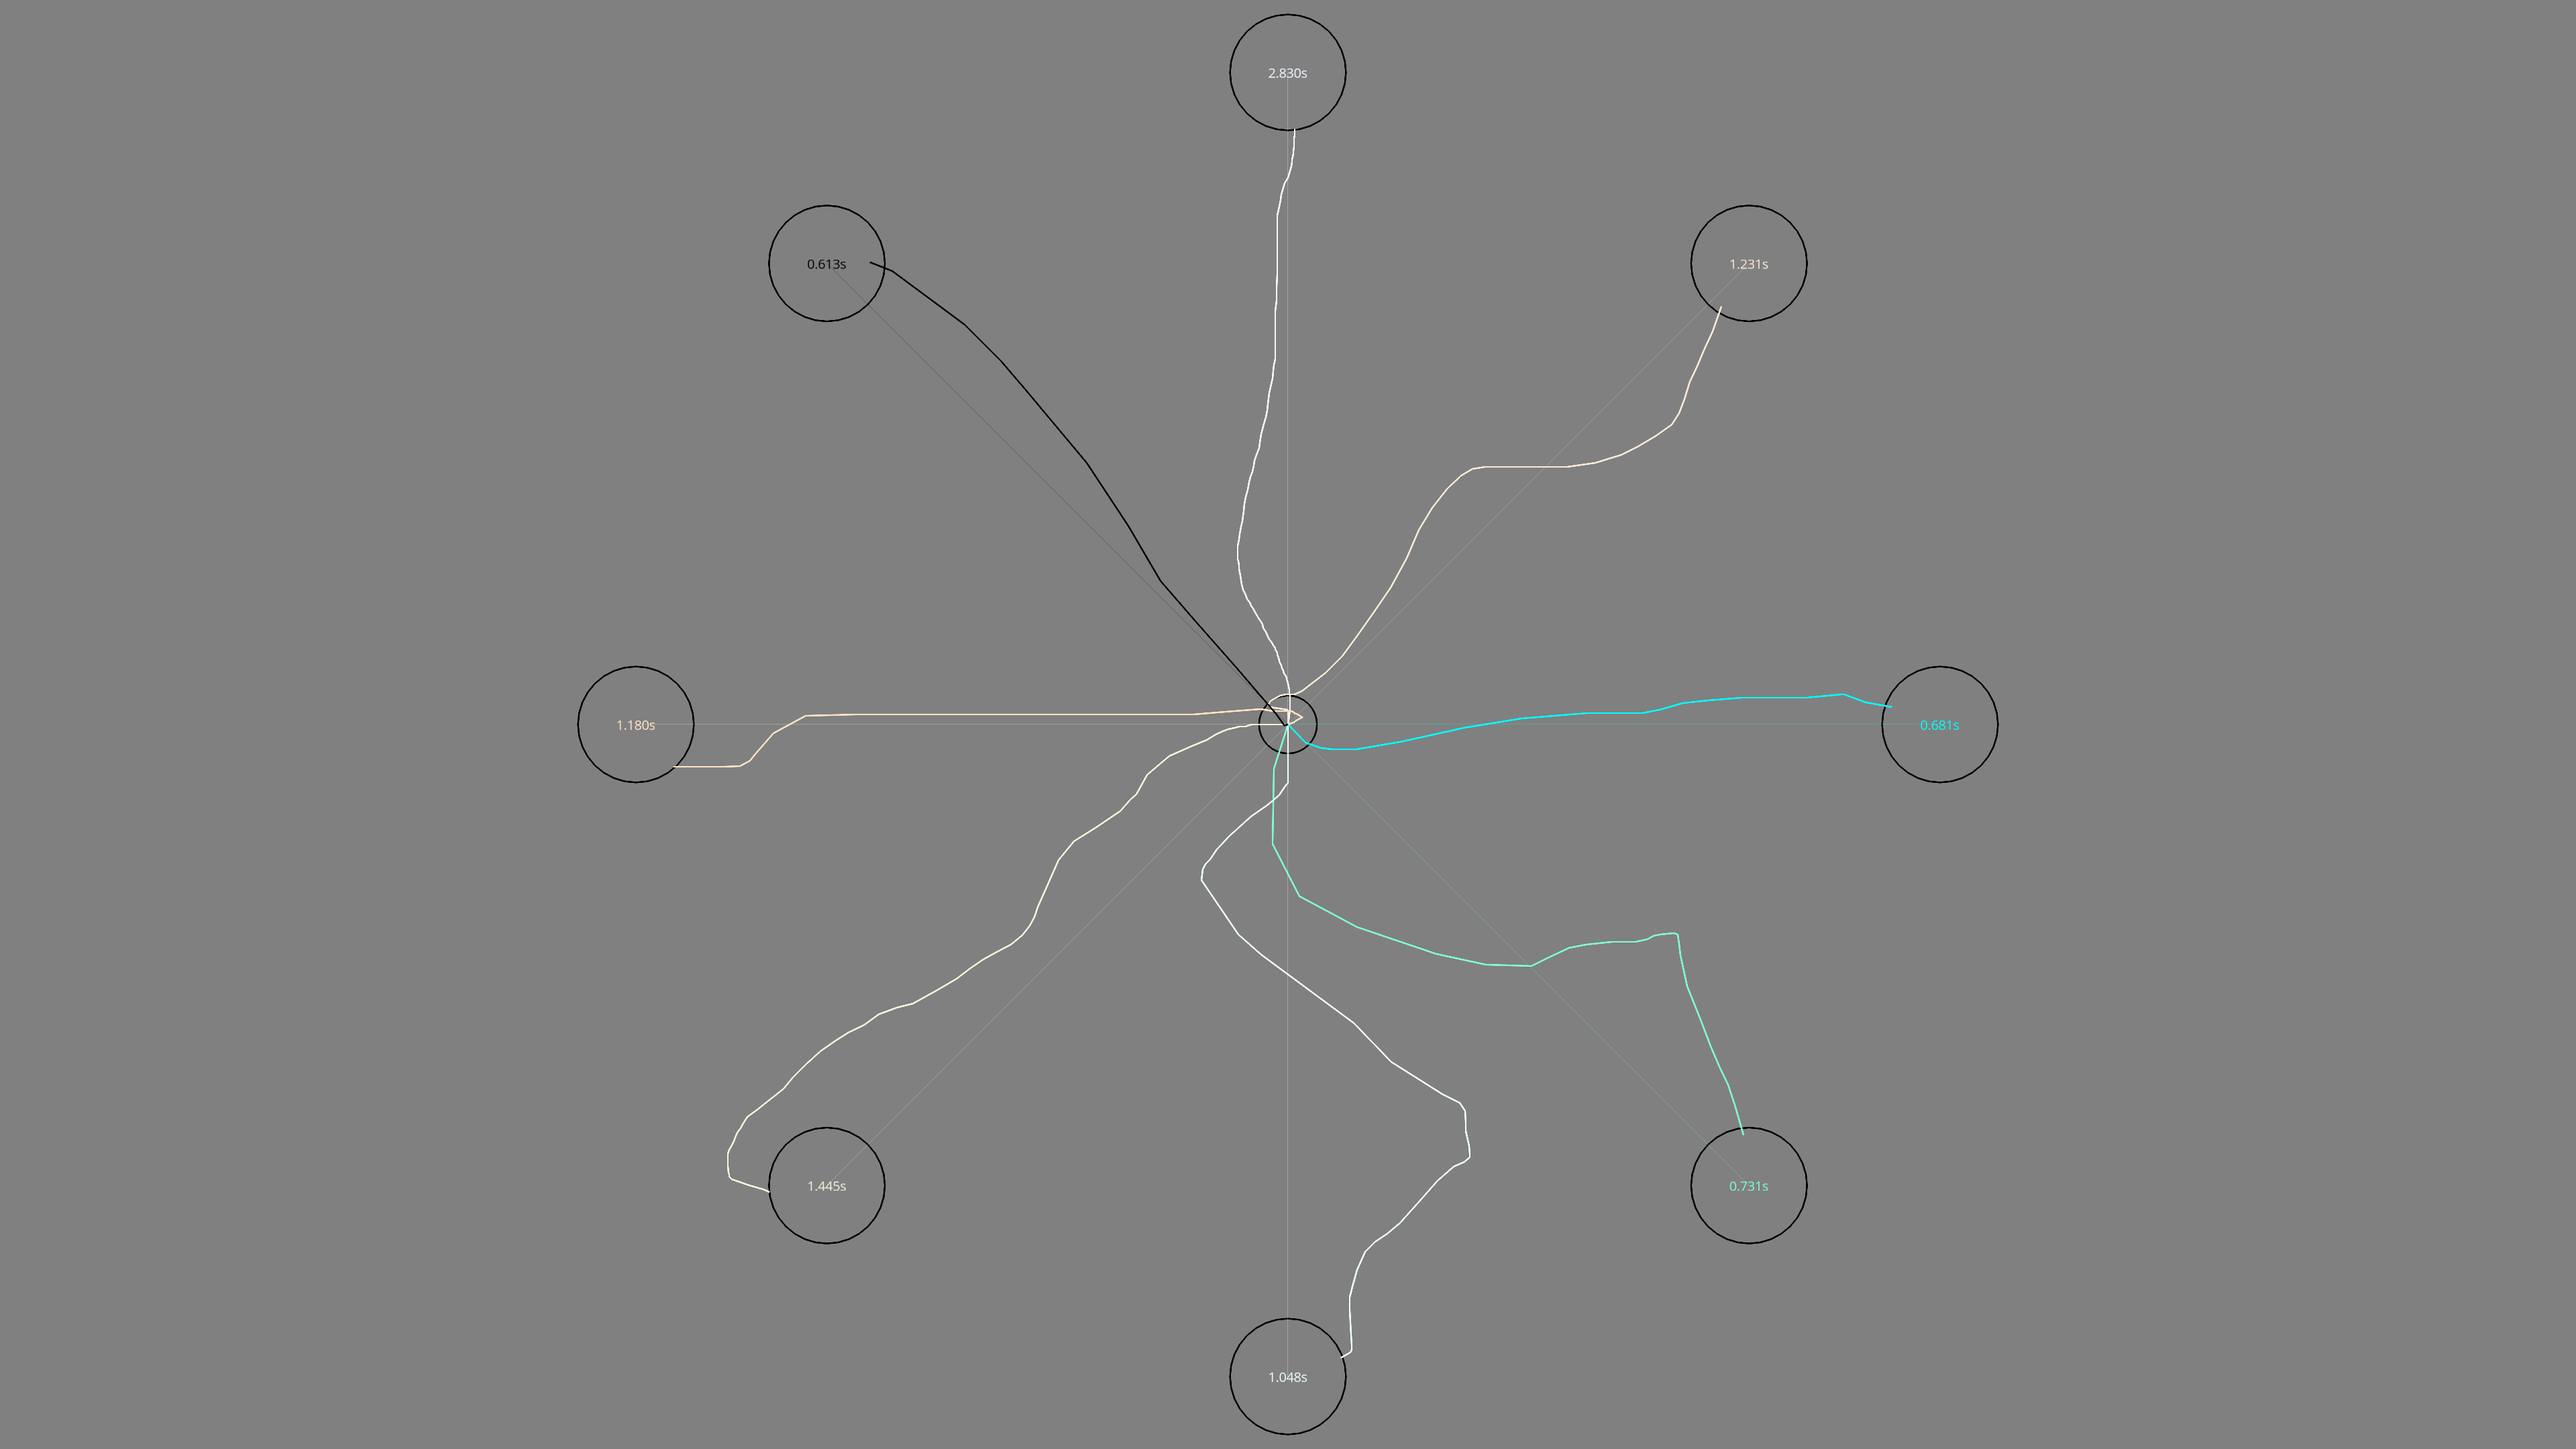
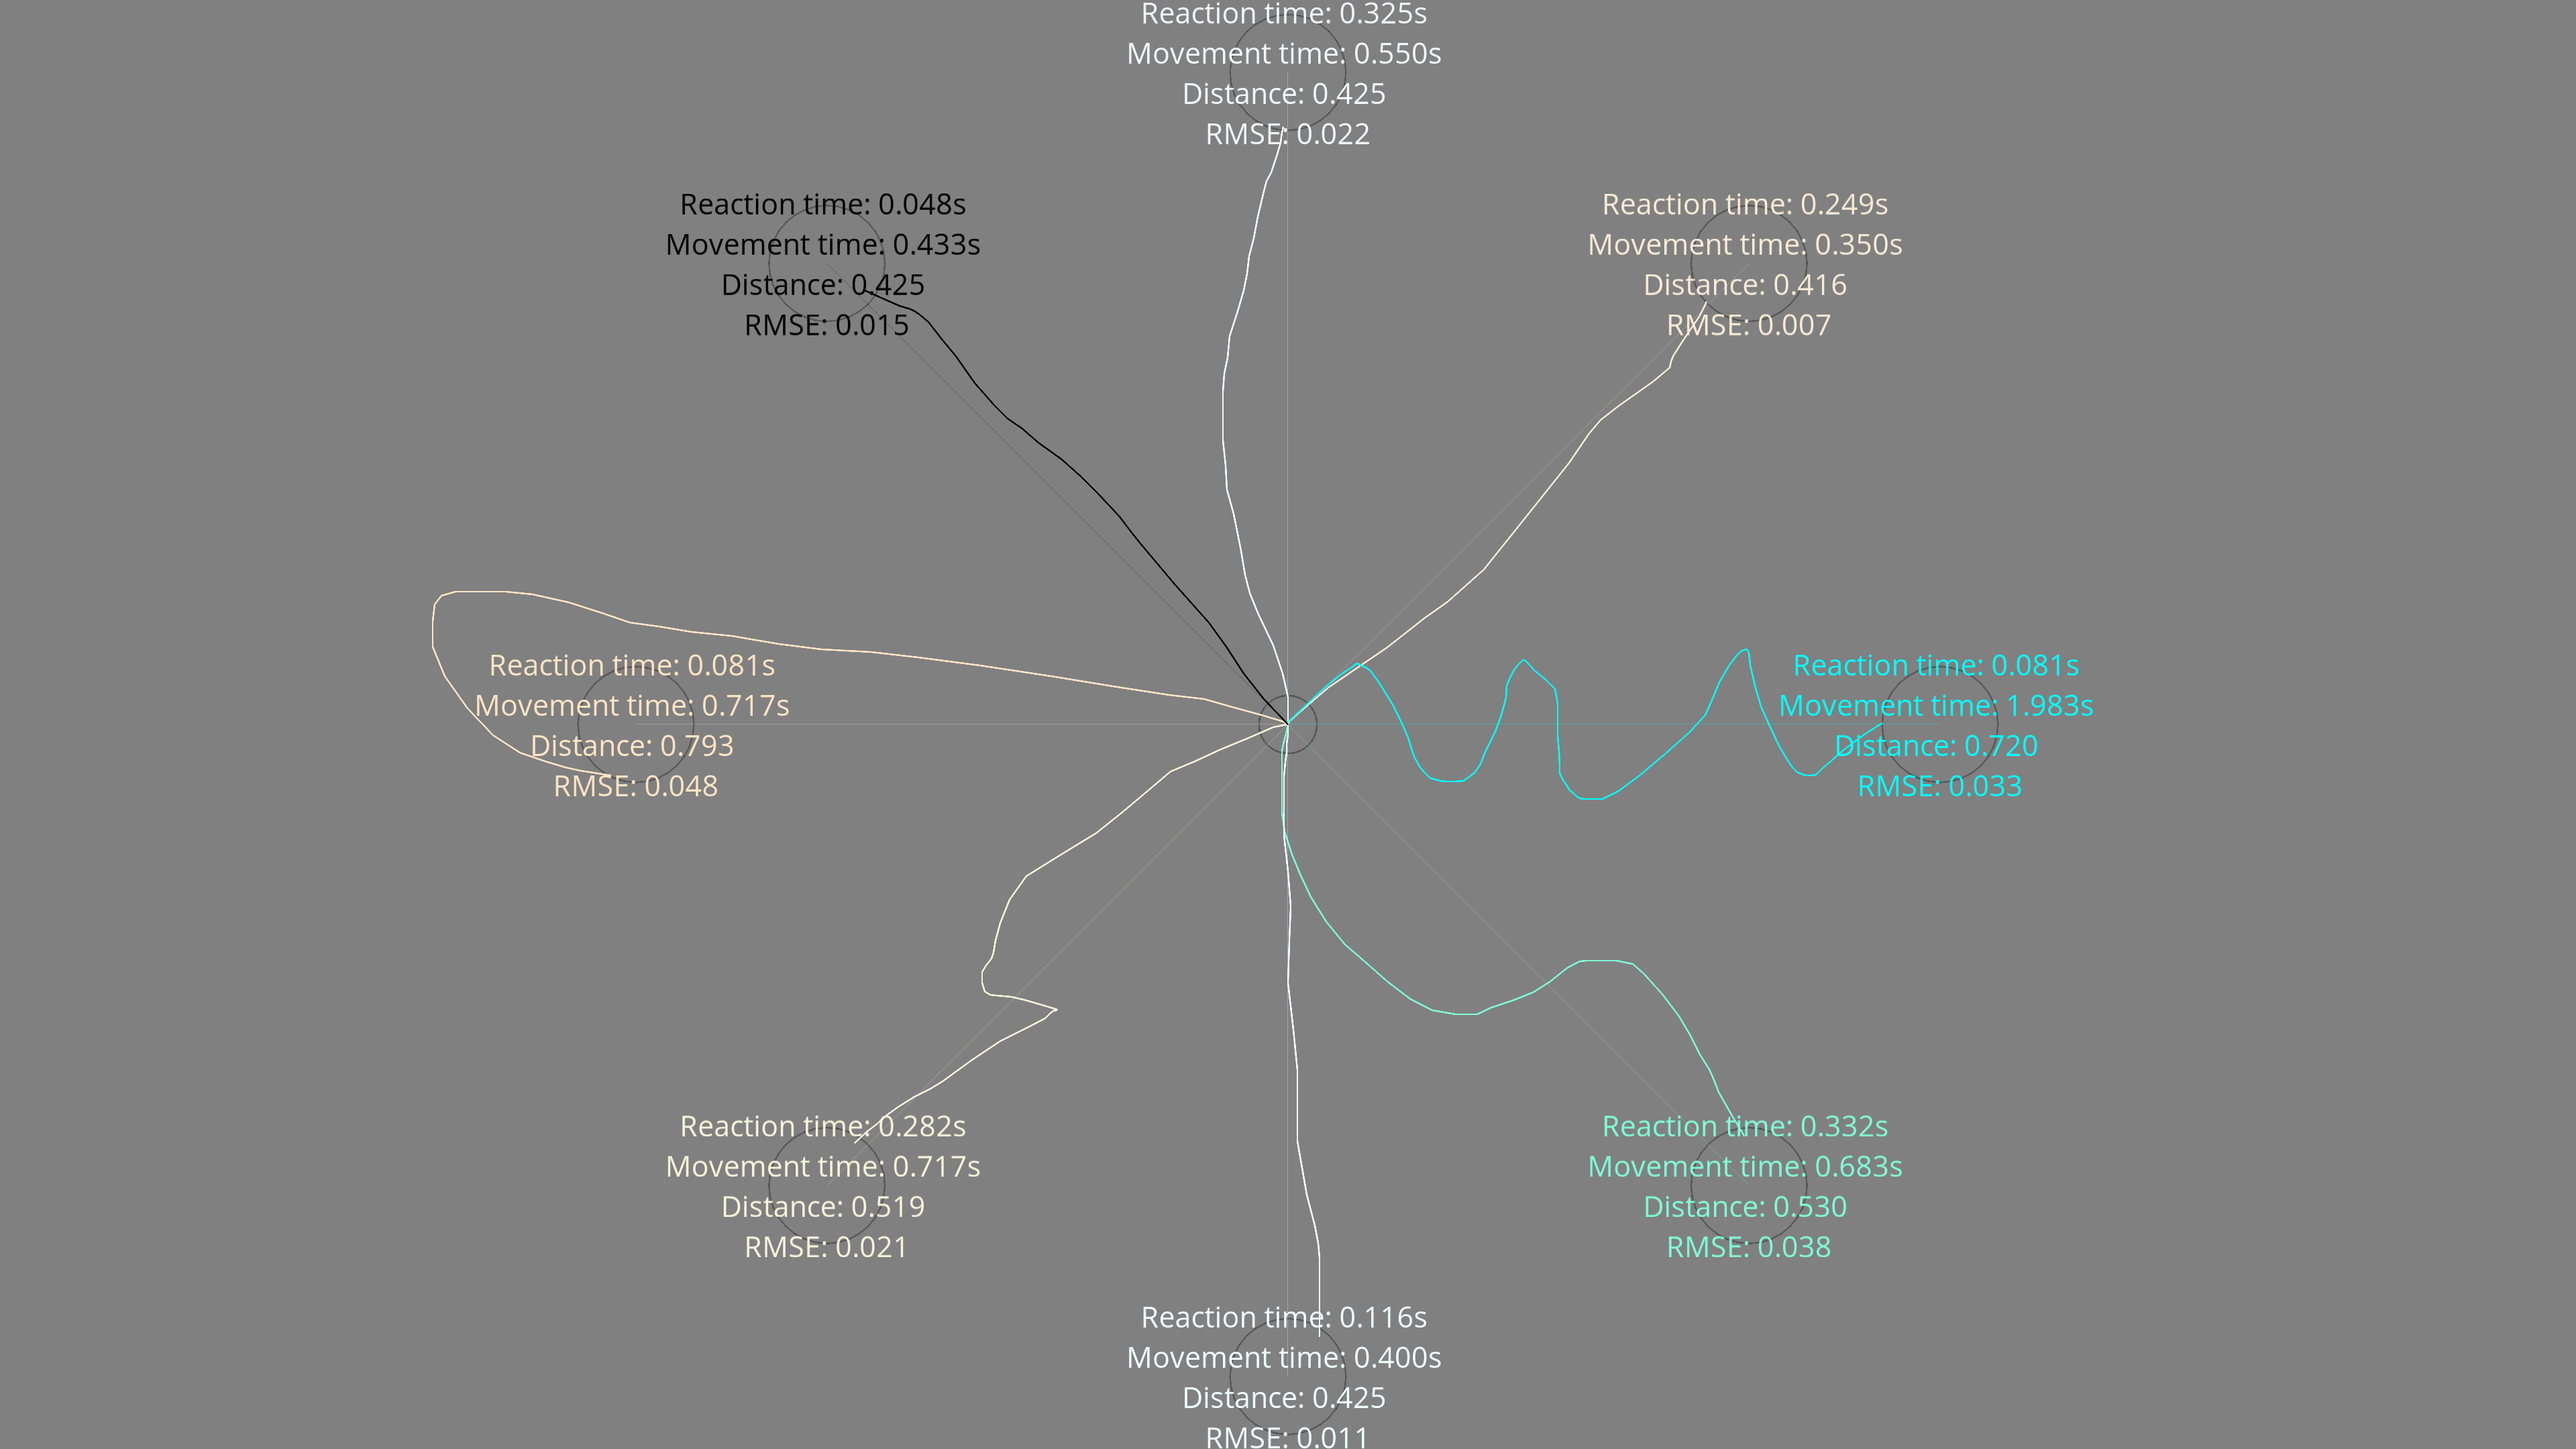
add basic analysis results for each target
- reaction time
- movement time
- distance travelled
- RMSE of trajectory vs ideal trajectory

diff --git a/src/motor_task_prototype/task.py b/src/motor_task_prototype/task.py
@@ -12,11 +12,12 @@ from psychopy.clock import Clock
 from psychopy import core
 from psychopy.event import Mouse, xydist
 from psychopy.hardware.keyboard import Keyboard
-from motor_task_prototype.geometry import points_on_circle, rotate_point
 from dataclasses import dataclass
 from typing import List, Tuple
 from enum import Enum
 import numpy as np
+from motor_task_prototype import geometry as mtpgeom
+from motor_task_prototype import analysis as mtpanalysis
 
 
 def make_cursor(window: Window) -> ShapeStim:
@@ -42,9 +43,10 @@ def make_targets(
     radius: float,
     point_radius: float,
     center_point_radius: float,
+    opacity: float = 1,
 ) -> List[Circle]:
     circles = []
-    for pos in points_on_circle(n_circles, radius):
+    for pos in mtpgeom.points_on_circle(n_circles, radius):
         circles.append(
             Circle(
                 window,
@@ -53,6 +55,7 @@ def make_targets(
                 lineColor="black",
                 lineWidth=3,
                 fillColor=None,
+                opacity=opacity,
             )
         )
     circles.append(
@@ -63,6 +66,7 @@ def make_targets(
             lineColor="black",
             lineWidth=3,
             fillColor=None,
+            opacity=opacity,
         )
     )
     return circles
@@ -213,7 +217,7 @@ class MotorTask:
             while dist > self.settings.point_radius and clock.getTime() < 0:
                 mouse_pos = mouse.getPos()
                 if self.settings.rotate_cursor_radians != 0:
-                    mouse_pos = rotate_point(
+                    mouse_pos = mtpgeom.rotate_point(
                         mouse_pos, self.settings.rotate_cursor_radians
                     )
                 if self.settings.show_cursor:
@@ -231,15 +235,14 @@ class MotorTask:
     def display_results(self, win: Window, results: List[MotorTaskTargetResult]):
         clock = Clock()
         kb = Keyboard()
-        targets = make_targets(
+        drawables = make_targets(
             win,
             self.settings.n_points,
             self.settings.outer_radius,
             self.settings.point_radius,
             self.settings.center_point_radius,
+            0.3,
         )
-        drawables = targets
-
         for result, color in zip(results, colors):
             drawables.append(
                 Line(
@@ -260,13 +263,19 @@ class MotorTask:
                     lineWidth=3,
                 )
             )
+            reac, move = mtpanalysis.reaction_movement_times(
+                result.mouse_times, result.mouse_positions
+            )
+            dist = mtpanalysis.distance(result.mouse_positions)
+            rmse = mtpanalysis.rmse(result.mouse_positions, result.target_position)
             drawables.append(
                 TextBox2(
                     win,
-                    f"{result.mouse_times[-1]-result.mouse_times[0]:.3f}s",
+                    f"Reaction time: {reac:.3f}s\nMovement time: {move:.3f}s\nDistance: {dist:.3f}\nRMSE: {rmse:.3f}",
                     pos=result.target_position,
                     color=color,
                     alignment="center",
+                    letterHeight=0.02,
                 )
             )
         clock.reset()

diff --git a/tests/test_analysis.py b/tests/test_analysis.py
@@ -1,0 +1,60 @@
+import motor_task_prototype.analysis as analysis
+import numpy as np
+
+
+def test_distance():
+    assert np.allclose(analysis.distance([(0, 0)]), [0])
+    assert np.allclose(analysis.distance([(0, 0), (1, 1)]), [np.sqrt(2)])
+    assert np.allclose(analysis.distance([(0, 0), (1, 1), (0, 0)]), [2.0 * np.sqrt(2)])
+    assert np.allclose(
+        analysis.distance([(0, 0), (1, 1), (0, 0), (-1, -1)]), [3.0 * np.sqrt(2)]
+    )
+    assert np.allclose(
+        analysis.distance([(0, 0), (1, 1), (0, 0), (-1, -1), (1, 1)]),
+        [5.0 * np.sqrt(2)],
+    )
+    assert np.allclose(
+        analysis.distance([(0, 0), (np.sqrt(2), np.sqrt(2)), (0, 0)]), [4]
+    )
+
+
+def test_reaction_movement_times():
+    for times in [
+        [0.0],
+        [0.0, 0.1],
+        [1.0, 2.0],
+        [0.0, 2.0, 4.0, 6.0],
+        [0.0, 0.1, 0.2, 0.3, 0.4, 0.5, 0.7, 1.0, 1.1, 1.2],
+    ]:
+        n = len(times)
+        for n_zeros in range(n):
+            positions = [(-1e-13, 1e-14)] * n_zeros + [(1, 1)] * (n - n_zeros)
+            reaction_time = times[n_zeros] - times[0]
+            movement_time = times[-1] - reaction_time
+            assert np.allclose(
+                analysis.reaction_movement_times(times, positions),
+                [reaction_time, movement_time],
+            )
+
+
+def test_rmse():
+    target = (1, 1)
+    origin = (0, 0)
+    # all points lie on line
+    assert np.allclose(analysis.rmse([(0, 0)], target, origin), [0])
+    assert np.allclose(analysis.rmse([(0, 0), (1, 1)], target, origin), [0])
+    assert np.allclose(analysis.rmse([(0, 0), (0.2, 0.2)], target, origin), [0])
+    assert np.allclose(
+        analysis.rmse([(0, 0), (0.25, 0.25), (0.5, 0.5), (0.75, 0.75)], target, origin),
+        [0],
+    )
+    # points which are all 1/sqrt(2) perpendicular distance from line
+    assert np.allclose(analysis.rmse([(0, 1)], target, origin), [1.0 / np.sqrt(2.0)])
+    assert np.allclose(analysis.rmse([(1, 0)], target, origin), [1.0 / np.sqrt(2.0)])
+    assert np.allclose(
+        analysis.rmse([(0, 1), (1, 0)], target, origin), [1.0 / np.sqrt(2.0)]
+    )
+    assert np.allclose(
+        analysis.rmse([(0, 1), (1, 0), (0, 1), (1, 0)], target, origin),
+        [1.0 / np.sqrt(2.0)],
+    )

diff --git a/src/motor_task_prototype/analysis.py b/src/motor_task_prototype/analysis.py
@@ -1,0 +1,39 @@
+import numpy as np
+from typing import List, Tuple
+from psychopy.event import xydist
+
+
+def reaction_movement_times(
+    mouse_times: List[float], mouse_positions: List[Tuple[float, float]], epsilon=1e-12
+):
+    assert len(mouse_times) == len(
+        mouse_positions
+    ), "Mouse times and positions lists must have the same number of elements"
+    i = 0
+    while xydist((0, 0), mouse_positions[i]) < epsilon and i + 1 < len(mouse_times):
+        i += 1
+    reaction_time = mouse_times[i] - mouse_times[0]
+    movement_time = mouse_times[-1] - reaction_time
+    return reaction_time, movement_time
+
+
+def distance(mouse_positions: List[Tuple[float, float]]):
+    dist = 0
+    for i in range(len(mouse_positions) - 1):
+        dist += xydist(mouse_positions[i + 1], mouse_positions[i])
+    return dist
+
+
+def rmse(
+    mouse_positions: List[Tuple[float, float]],
+    target: Tuple[float, float],
+    origin: Tuple[float, float] = (0, 0),
+):
+    norm = np.power(origin[0] - target[0], 2) + np.power(origin[1] - target[1], 2)
+    norm *= len(mouse_positions)
+    dx = target[0] - origin[0]
+    dy = target[1] - origin[1]
+    sum_of_squares = 0
+    for p in mouse_positions:
+        sum_of_squares += np.power(dx * (origin[1] - p[1]) - dy * (origin[0] - p[0]), 2)
+    return np.sqrt(sum_of_squares / norm)

diff --git a/src/motor_task_prototype/__init__.py b/src/motor_task_prototype/__init__.py
@@ -1,1 +1,1 @@
-__version__ = "0.0.2"
+__version__ = "0.0.3"
